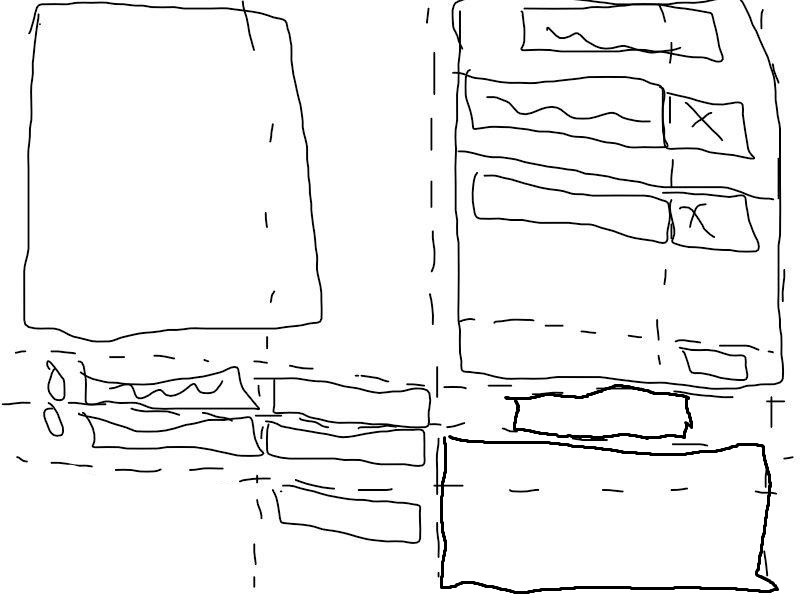
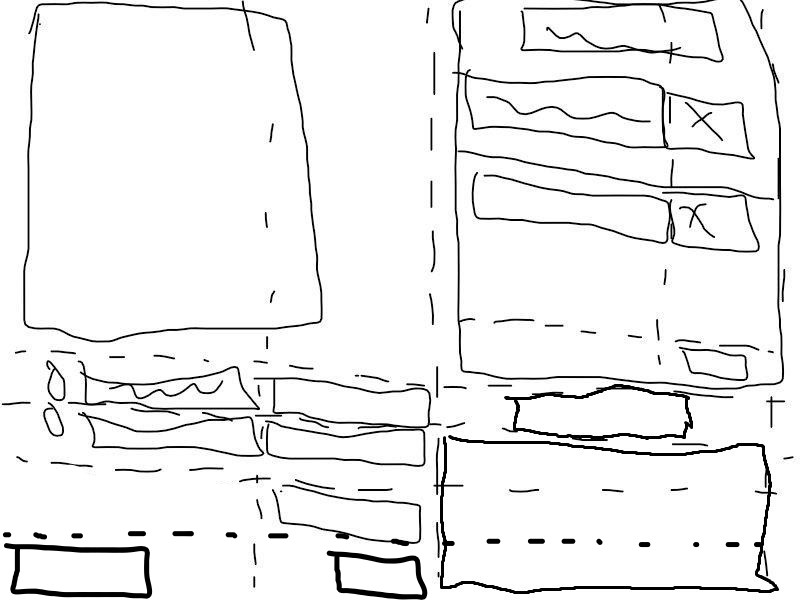
add two buttons to the edit frame called "Back" and "Reset" buttons.

diff --git a/window_classes.py b/window_classes.py
@@ -74,8 +74,8 @@ class CurrentRecipeFrame(ttk.Frame):
         if recipe is not None:
             self.recipe_info = recipe
         else:
-            self.recipe_info = recipe_row(-1, 'New Recipe', ['Edit Ingredients'], 'None', 'Add Description', 'None',
-                                          'None')
+            self.recipe_info = recipe_row(-1, 'Recipe Name Here', ['Edit Ingredients'], 'None', 'Add Description',
+                                          'None', 'None')
 
 
 class EditFrame(ttk.Frame):
@@ -99,6 +99,8 @@ class EditFrame(ttk.Frame):
         self.weblink_entry = ttk.Entry(self, textvariable=self.tk_website_link)
         self.fileloc_entry = ttk.Entry(self, textvariable=self.tk_fileloc)
         self.fileloc_button = ttk.Button(self, text="Select File", command=self.select_file)
+        self.back_button = ttk.Button(self, text="<- Back", command=self.back_button_command)
+        self.reset_button = ttk.Button(self, text="Reset", command=self.reset_button_command)
 
         self.tk_recipe_title = tk.StringVar(self, value=recipe.recipe_name)
         self.title_entry = ttk.Entry(self, textvariable=self.tk_recipe_title)
@@ -110,8 +112,10 @@ class EditFrame(ttk.Frame):
         self.weblink_entry.grid(row=1, column=1, sticky="we", padx=3, pady=3)
         self.fileloc_entry.grid(row=2, column=1, sticky="we", padx=3, pady=3)
         self.fileloc_button.grid(row=3, column=1, sticky="n", padx=3, pady=3)
-        self.title_entry.grid(row=1, column=2, padx=3, pady=3)
-        self.desc_box.grid(row=3, column=2, rowspan=2, sticky="news", padx=3, pady=3)
+        self.back_button.grid(row=4, column=0, sticky="w", padx=3, pady=3)
+        self.reset_button.grid(row=4, column=1, sticky="e", padx=3, pady=3)
+        self.title_entry.grid(row=1, column=2, sticky="ew", padx=3, pady=3)
+        self.desc_box.grid(row=3, column=2, rowspan=3, sticky="news", padx=3, pady=3)
         self.ingredients_frame.grid(row=0, column=2, sticky="nesw", padx=3, pady=3)
 
         if recipe.recipe_image != "None" and os.path.exists(recipe.recipe_image):
@@ -124,8 +128,8 @@ class EditFrame(ttk.Frame):
             self.display_image(file_found=False)
 
         self.columnconfigure(0, weight=1)
-        self.columnconfigure(1, weight=1)
-        self.columnconfigure(2, weight=2)
+        self.columnconfigure(1, weight=6)
+        self.columnconfigure(2, weight=10)
         self.rowconfigure(0, weight=8)
         self.rowconfigure(1, weight=1)
         self.rowconfigure(2, weight=1)
@@ -148,6 +152,12 @@ class EditFrame(ttk.Frame):
             self.master_win.current_recipe = new_recipe
         else:
             update_recipe(*self.recipe_info)
+
+    def back_button_command(self):
+        pass
+
+    def reset_button_command(self):
+        pass
 
     def display_image(self, file_found):
         if file_found:
